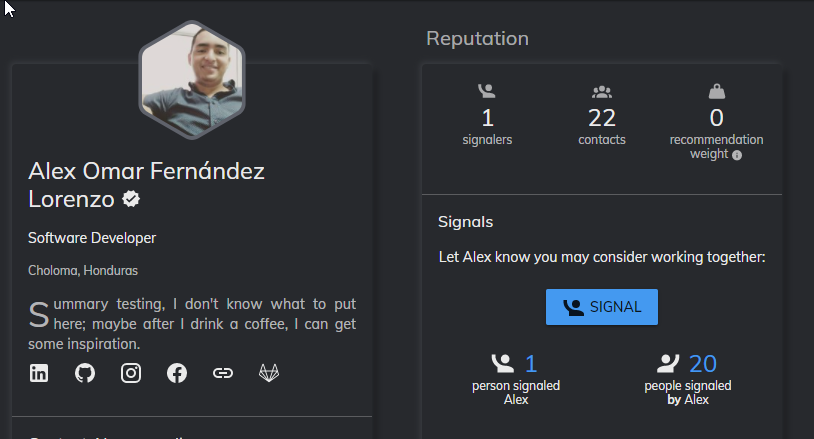
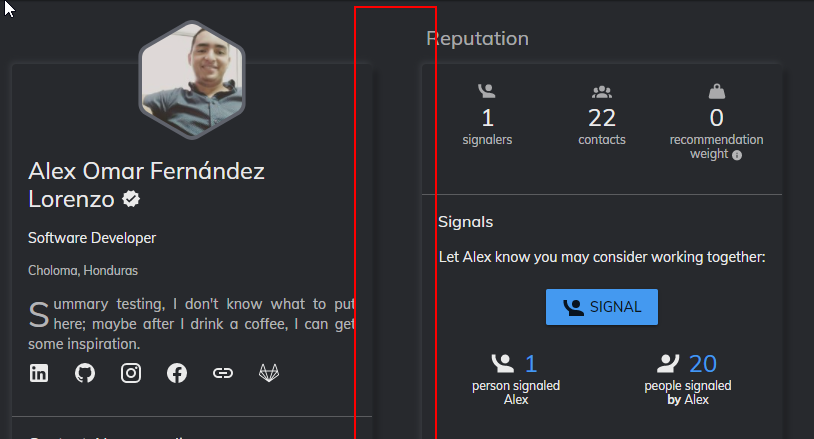
Update readme

Changed region(s): [[0.43, 0.0, 0.5528, 0.0296]]

diff --git a/README.md b/README.md
@@ -12,6 +12,94 @@ You can access the site using [Genome](http://torre-genome.s3-website-us-west-2.
 - Provide more details about the culture dynamics, at first glance you don't know what is that blue bar
 ![](images/professional-culture.png)
 
+- Space between columns in my opinion was too much
+![](images/space-between-columns.png
+)
+
+- Alexander said in a [video](https://cdn2.hubspot.net/hubfs/5943984/Torre%20-%20Our%20journey.mp4)
+that you guys killed the resume and create something totally different with torre, but you still have résumé as a column
+
+![](images\kill-resume.png)
+
+
+# Data Analysis
+
+- The results for the personality traits were no right, the values shown for each trait were not valid, in fact, it was from another trait.
+
+**extraversion details**
+
+![](images\traits-details.png)
+
+as you can see in the following JSON (taken from my genome), the result analysis for extraversion is 4; it isn't 3.88; that value is for openness-to-experience
+
+```json
+"personalityTraitsResults": {
+"groups": [
+{"id": "extraversion", "order": 0, "median": 3.5, "stddev": 0.57},
+{
+"id": "openness-to-experience",
+"order": 1,
+"median": 3.41,
+"stddev": 0.6
+},
+{"id": "conscientiousness", "order": 2, "median": 3.44, "stddev": 0.56},
+{"id": "agreeableness", "order": 3, "median": 2.94, "stddev": 0.58},
+{"id": "honesty-humility", "order": 4, "median": 3.19, "stddev": 0.62},
+{"id": "emotionality", "order": 5, "median": 3.43, "stddev": 0.62}
+],
+"analyses": [
+{"groupId": "openness-to-experience", "analysis": 3.88},
+{"groupId": "honesty-humility", "analysis": 4.13},
+{"groupId": "agreeableness", "analysis": 3},
+{"groupId": "altruism", "analysis": 4.5},
+{"groupId": "conscientiousness", "analysis": 4.19},
+{"groupId": "emotionality", "analysis": 3.75},
+{"groupId": "extraversion", "analysis": 4}
+]
+},
+
+```
+
+# You should take a look at 
+- How the about section is being display
+
+![](images\about-section.png)
+
+-The verified badge is on top of the image
+
+-The column name is being shown as a ribbon
+
+-The name, headline, location, and summary are more noticeable
+
+- Sub-sections are more compact
+
+![](images\sub-section.png)
+
+-The division and the subsection title are in the same line, which provides a clear view
+
+-The tags are ordered by length; shorter words will be shown first; that way, we prevent death space and more lines than required
+
+- The resume section was rename to **Professional Experience**
+![](images\former-resume.png)
+
+- The personality traits now shows a genome with the different traits, when you hover/click on each you will see the details.
+
+![](images\personality-tratis.png)
+
+-The details now show the rigth analysis value
+-The normal distribution is still being show but in a more interactive way
+-The HEXACO group names are being shown
+
+
+- The professional culture section now is being display using tabs to group the culture values by frecuency
+
+![](images\new-professional-culture.png)
+![](images\new-professional-culture-2.png)
+
+-Instead of having a huge repetitive blue bar, we now group the values
+-The values are being display alternating the position to provide a clean view and brin more flow to the info.
+
+
 # LOG
 
 **_commit 7805c0366b0afc7822351550fe3fb477ce6e10c5 (HEAD -> develop, origin/develop)_**
